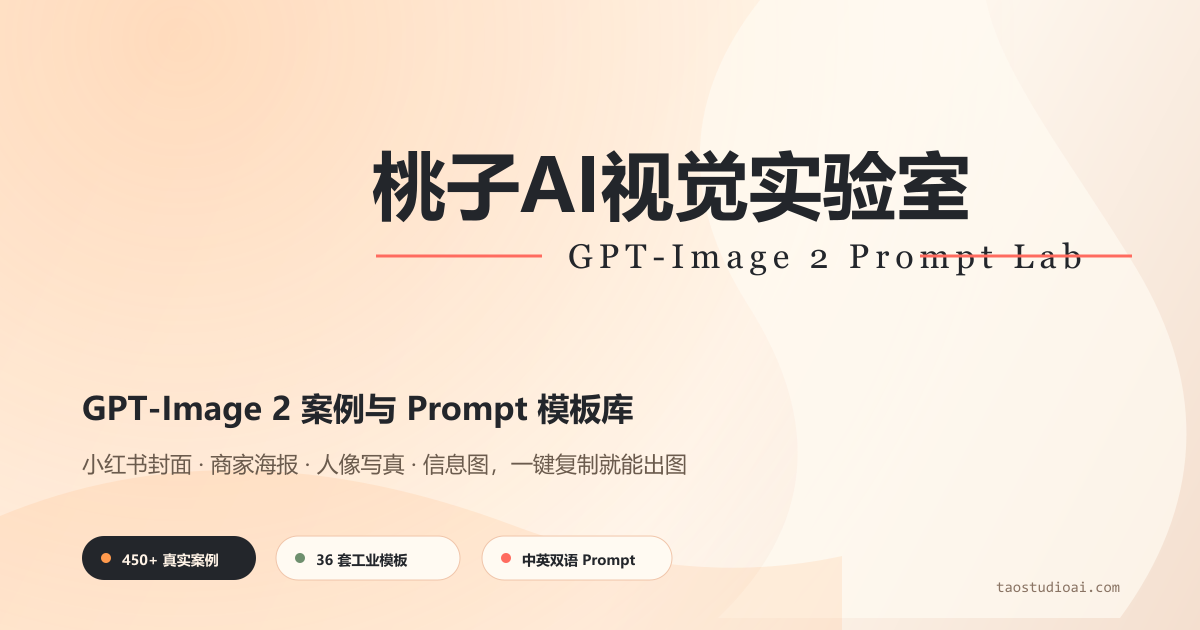
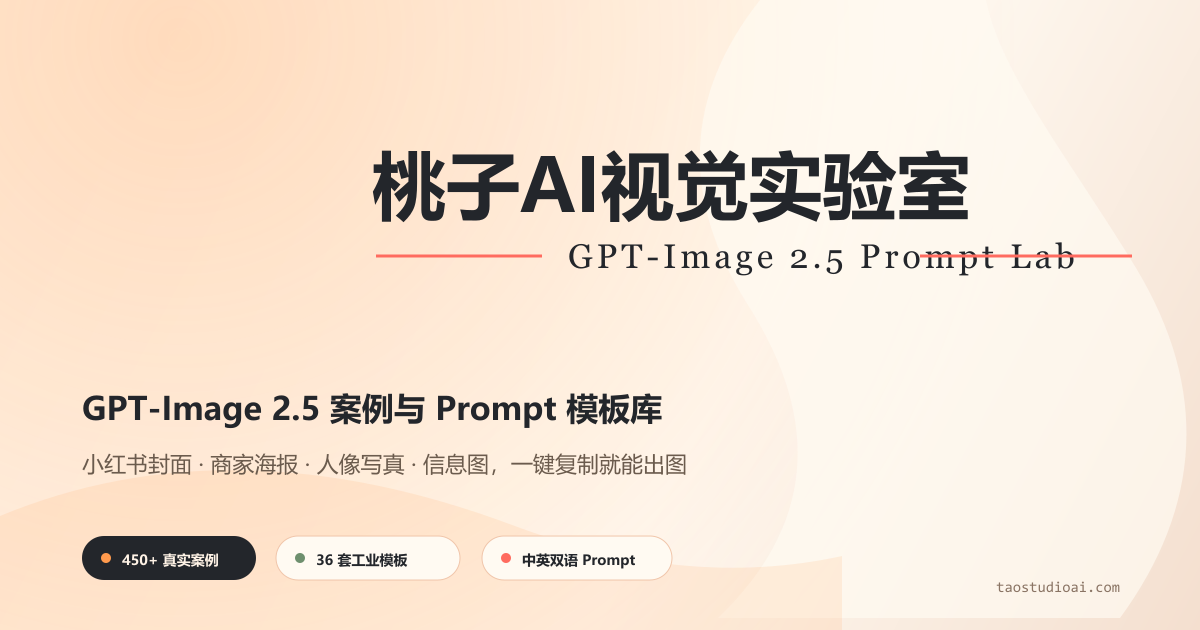
feat(brand): 全站术语升级 GPT-Image 2.5 + 首页移动端图优先重排
- brand-core 新增单一事实源 BRAND.model，各页 SEO 标题/H1/文案统一引用；og.svg/og.png 分享卡与 index.html 兜底 meta 同步（og 卡 textLength 钉宽防字体回退穿线，og 烘焙挂进 prebuild 防再发）
- keywords 保留旧词 GPT-Image 2 做存量搜索覆盖；上游仓库名/sourceCredit/lab 逐图 model 等事实标识不动
- 首页移动端：英雄区压缩（手机隐藏统计条、文案两行、H1 2rem），DOM 序翻转为 精选→分类→任务（移动端 DOM=视觉=读屏一致），桌面 lg:order 恢复原序；实测手机首屏图片占比 65-70%→文字墙消除
- template-derivation 派生句同步 2.5，防未来再生成回退

Changed region(s): [[0.2467, 0.6032, 0.555, 0.6937], [0.4933, 0.3921, 0.8942, 0.4524]]

diff --git a/src/pages/HomePage.tsx b/src/pages/HomePage.tsx
@@ -76,7 +76,7 @@ export default function HomePage() {
   const ldItemList = {
     "@context": "https://schema.org",
     "@type": "ItemList",
-    name: "精选 GPT-Image 2 案例",
+    name: `精选 ${BRAND.model} 案例`,
     numberOfItems: featured.length,
     itemListElement: featured.map((c, i) => ({
       "@type": "ListItem",
@@ -91,7 +91,7 @@ export default function HomePage() {
     <>
       <SEO title={HOME_TITLE} description={HOME_DESC} path="/" jsonLd={[ldOrg, ldItemList]} />
 
-      <section className="container-gallery grid gap-8 pb-8 pt-7 sm:gap-10 sm:pb-12 sm:pt-14 lg:grid-cols-[minmax(0,0.9fr)_minmax(420px,1fr)] lg:items-center lg:pb-16">
+      <section className="container-gallery grid gap-5 pb-6 pt-4 sm:gap-10 sm:pb-12 sm:pt-14 lg:grid-cols-[minmax(0,0.9fr)_minmax(420px,1fr)] lg:items-center lg:pb-16">
         <div className="relative z-10 flex flex-col">
           <div className="inline-flex w-fit items-center gap-2 rounded-full border border-white/10 bg-white/[0.04] px-3 py-1.5 text-[11px] font-medium text-ink-300 backdrop-blur">
             <span className="h-1.5 w-1.5 rounded-full bg-ember-400" />
@@ -102,23 +102,24 @@ export default function HomePage() {
             </span>
           </div>
 
-          <h1 className="serif-display mt-4 max-w-3xl text-[2.35rem] leading-[0.98] text-ink-50 sm:text-[4.2rem] lg:text-[4.8rem]">
+          <h1 className="serif-display mt-3 max-w-3xl text-[2rem] leading-[0.98] text-ink-50 sm:mt-4 sm:text-[4.2rem] lg:text-[4.8rem]">
             桃子AI
             <span className="block text-ember-300">视觉实验室</span>
           </h1>
 
-          <p className="mt-4 max-w-xl text-[15px] leading-relaxed text-ink-300 sm:mt-6 sm:text-[17px]">
-            GPT-Image 2 真实案例、现成 Prompt、工业模板和场景筛选。直接看图、复制、改词，少刷教程，多出结果。
+          <p className="mt-3 max-w-xl text-[15px] leading-relaxed text-ink-300 sm:mt-6 sm:text-[17px]">
+            {`${BRAND.model} 真实案例、现成 Prompt 与工业模板。直接看图、复制、改词，少刷教程，多出结果。`}
           </p>
 
-          <div className="mt-6 flex flex-col gap-2.5 sm:flex-row sm:items-center">
+          <div className="mt-4 flex flex-col gap-2.5 sm:mt-6 sm:flex-row sm:items-center">
             <Link to="/cases" className="btn-primary justify-center">
               浏览全部 {animCases || totalCount} 个案例
               <ArrowRightIcon />
             </Link>
           </div>
 
-          <div className="mt-6 grid max-w-md grid-cols-3 gap-2 text-center sm:mt-8">
+          {/* 手机端隐藏统计条：CTA 已带案例总数，首屏把高度让给英雄图。 */}
+          <div className="mt-6 hidden max-w-md grid-cols-3 gap-2 text-center sm:mt-8 sm:grid">
             <Metric value={`${totalCount}+`} label="真实案例" />
             <Metric value={`${HOMEPAGE_USER_CATEGORIES.length}`} label="使用场景" />
             <Metric value={`${templates.length}`} label="工业模板" />
@@ -130,7 +131,44 @@ export default function HomePage() {
 
       <HeroStrip cases={stripCases} />
 
-      <section className="container-gallery pt-10 sm:pt-14" aria-labelledby="audience-tasks-title">
+      {/*
+        DOM 顺序即移动端视觉/读屏顺序：精选案例(图) → 场景分类 → 任务指引(文字)。
+        手机用户落地后先看图墙再看解释文案；桌面端用 lg:order 恢复 任务→分类→精选。
+        （纯 CSS 重排必有一端 Tab 序与视觉不一致，以移动端触屏/读屏为主场景。）
+      */}
+      <div className="flex flex-col">
+      <section className="container-gallery scroll-mt-20 pt-10 sm:pt-14 lg:order-3" id="featured">
+        <div className="flex flex-col gap-3 pb-5 sm:flex-row sm:items-end sm:justify-between sm:pb-6">
+          <div>
+            <p className="eyebrow">本周精选 · Featured</p>
+            <h2 className="serif-display mt-2 text-[26px] text-ink-50 sm:text-4xl lg:text-[40px]">
+              本周精选 12 个案例
+            </h2>
+          </div>
+          <Link
+            to="/cases"
+            className="text-[13px] font-medium text-ember-300 transition hover:text-ember-200"
+          >
+            查看全部
+          </Link>
+        </div>
+        <CaseGrid
+          cases={featured}
+          favoriteIds={favoriteIds}
+          onToggleFavorite={toggle}
+          paginate={false}
+          priorityCount={0}
+          restoreId={restoreId}
+          onRestored={onRestored}
+          contained={false}
+        />
+      </section>
+
+      <div className="lg:order-2">
+        <CategoryShowcase tiles={HOME_DATA.tiles} totalCount={totalCount} />
+      </div>
+
+      <section className="container-gallery pt-10 sm:pt-14 lg:order-1" aria-labelledby="audience-tasks-title">
         <div className="mb-5 max-w-3xl sm:mb-6">
           <p className="eyebrow">从任务开始 · Start With Your Task</p>
           <h2
@@ -172,35 +210,7 @@ export default function HomePage() {
           ))}
         </div>
       </section>
-
-      <CategoryShowcase tiles={HOME_DATA.tiles} totalCount={totalCount} />
-
-      <section className="container-gallery scroll-mt-20 pt-10 sm:pt-14" id="featured">
-        <div className="flex flex-col gap-3 pb-5 sm:flex-row sm:items-end sm:justify-between sm:pb-6">
-          <div>
-            <p className="eyebrow">本周精选 · Featured</p>
-            <h2 className="serif-display mt-2 text-[26px] text-ink-50 sm:text-4xl lg:text-[40px]">
-              本周精选 12 个案例
-            </h2>
-          </div>
-          <Link
-            to="/cases"
-            className="text-[13px] font-medium text-ember-300 transition hover:text-ember-200"
-          >
-            查看全部
-          </Link>
-        </div>
-        <CaseGrid
-          cases={featured}
-          favoriteIds={favoriteIds}
-          onToggleFavorite={toggle}
-          paginate={false}
-          priorityCount={0}
-          restoreId={restoreId}
-          onRestored={onRestored}
-          contained={false}
-        />
-      </section>
+      </div>
 
       <section className="container-gallery scroll-mt-20 pt-4 sm:pt-10" id="templates-teaser">
         <div className="flex flex-col gap-3 pb-5 sm:flex-row sm:items-end sm:justify-between sm:pb-6">

diff --git a/src/pages/LabPage.tsx b/src/pages/LabPage.tsx
@@ -2,6 +2,7 @@ import { useCallback, useEffect, useRef, useState } from "react";
 import { SEO } from "../components/SEO";
 import { LabGrid } from "../components/LabGrid";
 import { LAB_HOME, loadLabBrowsePage } from "../lib/data-lab";
+import { BRAND } from "../lib/brand";
 import type { LabLiteRow } from "../types";
 
 /**
@@ -58,8 +59,8 @@ export default function LabPage() {
   return (
     <>
       <SEO
-        title={`4K 实验室 · ${LAB_HOME.totalCount} 张 GPT-Image 2 原生生图`}
-        description="桃子AI视觉实验室的 GPT-Image 2 4K 原生生图档案：每张都附完整 Prompt、生成参数与 4K 原图下载，持续更新。"
+        title={`4K 实验室 · ${LAB_HOME.totalCount} 张 ${BRAND.model} 原生生图`}
+        description={`桃子AI视觉实验室的 ${BRAND.model} 4K 原生生图档案：每张都附完整 Prompt、生成参数与 4K 原图下载，持续更新。`}
         path="/lab"
       />
 
@@ -70,7 +71,7 @@ export default function LabPage() {
             4K 原生生图档案
           </h1>
           <p className="max-w-md text-[13px] leading-relaxed text-ink-400">
-            每日生成的 GPT-Image 2 4K 原图，附完整 Prompt 与参数，可下载原图。
+            每日生成的 {BRAND.model} 4K 原图，附完整 Prompt 与参数，可下载原图。
             共 {LAB_HOME.totalCount} 张，持续更新。
           </p>
         </div>

diff --git a/index.html b/index.html
@@ -36,10 +36,10 @@
     -->
     <meta
       name="description"
-      content="桃子AI视觉实验室整理小红书封面、商家海报、人像写真、信息图等 GPT-Image 2 真实案例与 Prompt 模板，按场景分类，一键复制就能出图。"
+      content="桃子AI视觉实验室整理小红书封面、商家海报、人像写真、信息图等 GPT-Image 2.5 真实案例与 Prompt 模板，按场景分类，一键复制就能出图。"
     />
     <meta name="author" content="桃子AI视觉实验室" />
-    <meta name="keywords" content="桃子AI视觉实验室, GPT-Image 2, GPT-Image 提示词, AI 图片提示词, 小红书封面, 商家海报, 人像写真, AI 海报, Prompt 模板" />
+    <meta name="keywords" content="桃子AI视觉实验室, GPT-Image 2.5, GPT-Image 2, GPT-Image 提示词, AI 图片提示词, 小红书封面, 商家海报, 人像写真, AI 海报, Prompt 模板" />
 
     <link rel="icon" type="image/png" sizes="32x32" href="/favicon-32x32.png?v=taostudio-peach-raster-20260522" />
     <link rel="icon" type="image/png" sizes="16x16" href="/favicon-16x16.png?v=taostudio-peach-raster-20260522" />

diff --git a/src/pages/TemplatesPage.tsx b/src/pages/TemplatesPage.tsx
@@ -31,8 +31,8 @@ export default function TemplatesPage() {
   return (
     <>
       <SEO
-        title={`${templates.length} 套 GPT-Image 2 工业级模板`}
-        description={`${BRAND.name}按用途分组整理 GPT-Image 2 工业级 Prompt 模板：UI 截图 / 信息图 / 海报 / 产品 / 品牌 / 摄影 / 角色 / 场景叙事。复制即可用，含约束与防坑指南。`}
+        title={`${templates.length} 套 ${BRAND.model} 工业级模板`}
+        description={`${BRAND.name}按用途分组整理 ${BRAND.model} 工业级 Prompt 模板：UI 截图 / 信息图 / 海报 / 产品 / 品牌 / 摄影 / 角色 / 场景叙事。复制即可用，含约束与防坑指南。`}
         path="/templates"
       />
       <section className="container-gallery pt-10 sm:pt-14">

diff --git a/src/components/CategoryShowcase.tsx b/src/components/CategoryShowcase.tsx
@@ -1,5 +1,6 @@
 import { Link } from "react-router-dom";
 import { pickLocalWebp, transformUrl } from "../lib/img";
+import { BRAND } from "../lib/brand";
 
 /**
  * Resolve a cover image URL that works for both local /images/* paths and
@@ -49,7 +50,7 @@ export function CategoryShowcase({ tiles, totalCount }: CategoryShowcaseProps) {
             从一个场景开始，复制就能出图。
           </h2>
           <p className="mt-1 hidden text-[14px] text-ink-400 sm:block sm:text-[15px]">
-            桃子AI视觉实验室按真实使用场景重新分类，找最常用的 GPT-Image 2 案例和 Prompt。
+            {`桃子AI视觉实验室按真实使用场景重新分类，找最常用的 ${BRAND.model} 案例和 Prompt。`}
           </p>
         </div>
 

diff --git a/src/pages/CategoryPage.tsx b/src/pages/CategoryPage.tsx
@@ -140,8 +140,8 @@ export default function CategoryPage() {
 
   if (!meta) return <NotFoundPage />;
 
-  const seoTitle = `${meta.label} · GPT-Image 2 案例与 Prompt`;
-  const seoDesc = `${BRAND.name}整理 ${meta.label} GPT-Image 2 提示词案例 ${totalCases} 个。${meta.tagline}。中英双语 Prompt，一键复制就能出图。`;
+  const seoTitle = `${meta.label} · ${BRAND.model} 案例与 Prompt`;
+  const seoDesc = `${BRAND.name}整理 ${meta.label} ${BRAND.model} 提示词案例 ${totalCases} 个。${meta.tagline}。中英双语 Prompt，一键复制就能出图。`;
 
   const breadcrumbLd = {
     "@context": "https://schema.org",

diff --git a/src/pages/TemplateDetailPage.tsx b/src/pages/TemplateDetailPage.tsx
@@ -5,6 +5,7 @@ import { ImageLightbox } from "../components/ImageLightbox";
 import { SEO, SITE } from "../components/SEO";
 import { useCopy } from "../hooks/useCopy";
 import { absoluteUrl } from "../lib/seo-url.mjs";
+import { BRAND } from "../lib/brand";
 import {
   applyTemplateVariables,
   derivedCaseSearchHref,
@@ -104,7 +105,7 @@ export default function TemplateDetailPage() {
   return (
     <>
       <SEO
-        title={`${t.title} · GPT-Image 2 模板`}
+        title={`${t.title} · ${BRAND.model} 模板`}
         description={t.description}
         path={`/template/${t.id}`}
         image={ogImage}

diff --git a/src/pages/AboutPage.tsx b/src/pages/AboutPage.tsx
@@ -17,7 +17,7 @@ export default function AboutPage() {
           用真实案例降低试错，也把来源与使用边界说清楚。
         </h1>
         <p className="mt-4 max-w-3xl text-[14px] leading-relaxed text-ink-300 sm:text-[15px]">
-          {BRAND.name}按创作任务整理 GPT-Image 2 案例与 Prompt 模板，帮助内容创作者、商家和设计师更快找到可参考的视觉方向。
+          {`${BRAND.name}按创作任务整理 ${BRAND.model} 案例与 Prompt 模板，帮助内容创作者、商家和设计师更快找到可参考的视觉方向。`}
         </p>
       </section>
 

diff --git a/src/pages/CasesPage.tsx b/src/pages/CasesPage.tsx
@@ -372,8 +372,8 @@ export default function CasesPage() {
   return (
     <>
       <SEO
-        title={`全部案例 · ${totalCount}+ GPT-Image 2 真实案例`}
-        description={`${BRAND.name}按用例、风格、场景、平台筛选 GPT-Image 2 真实案例。一键复制 Prompt，免费用作灵感来源。`}
+        title={`全部案例 · ${totalCount}+ ${BRAND.model} 真实案例`}
+        description={`${BRAND.name}按用例、风格、场景、平台筛选 ${BRAND.model} 真实案例。一键复制 Prompt，免费用作灵感来源。`}
         path="/cases"
       />
 

diff --git a/src/pages/NotFoundPage.tsx b/src/pages/NotFoundPage.tsx
@@ -13,7 +13,7 @@ export default function NotFoundPage() {
     <>
       <SEO
         title={`页面不存在 · ${BRAND.name}`}
-        description="你访问的页面不存在或已下架。回到首页继续浏览 450+ 个 GPT-Image 2 案例。"
+        description={`你访问的页面不存在或已下架。回到首页继续浏览 450+ 个 ${BRAND.model} 案例。`}
         path="/404"
         noindex
       />
